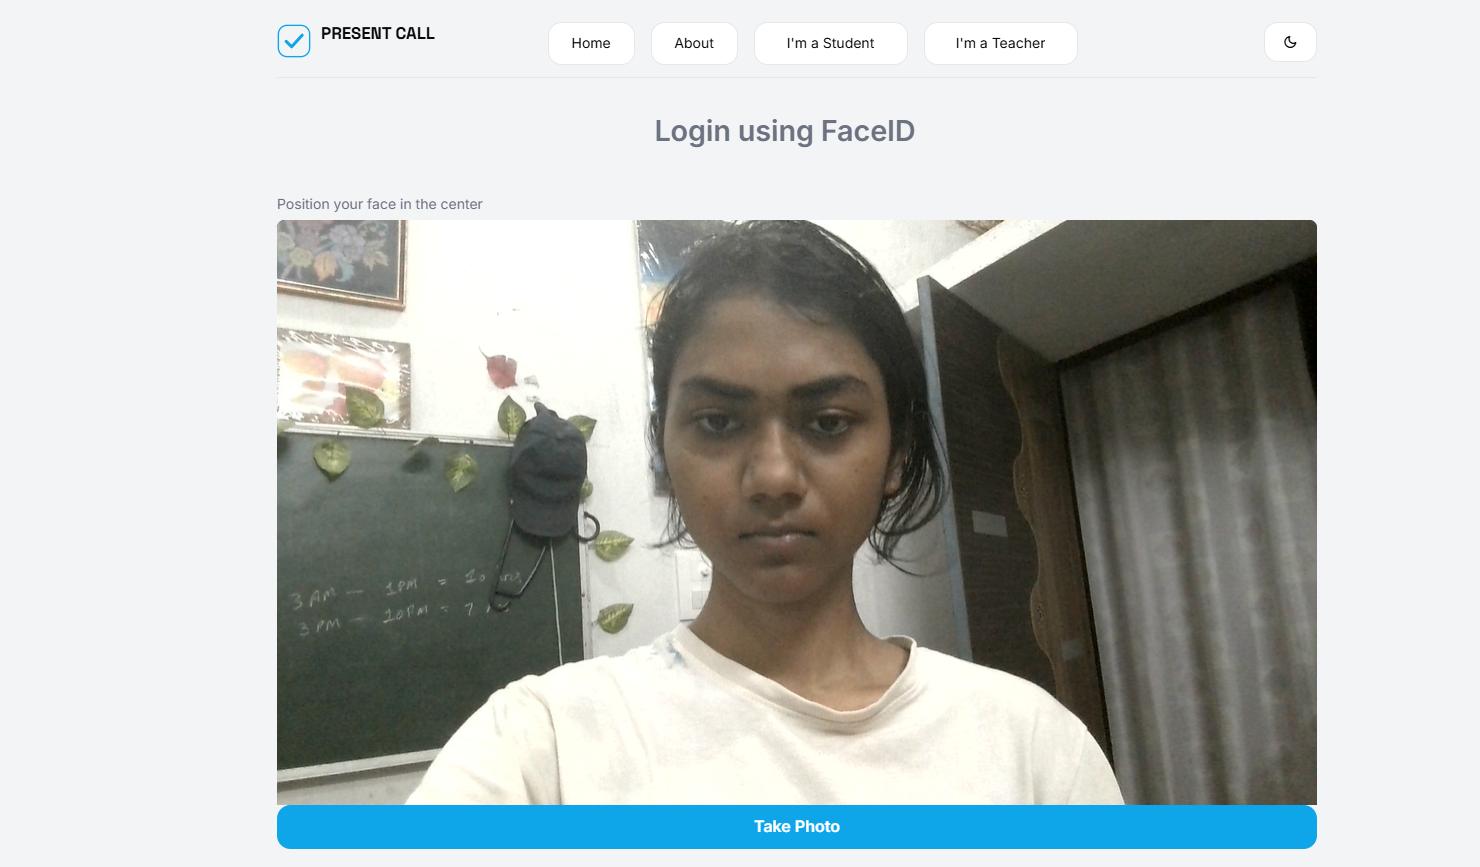
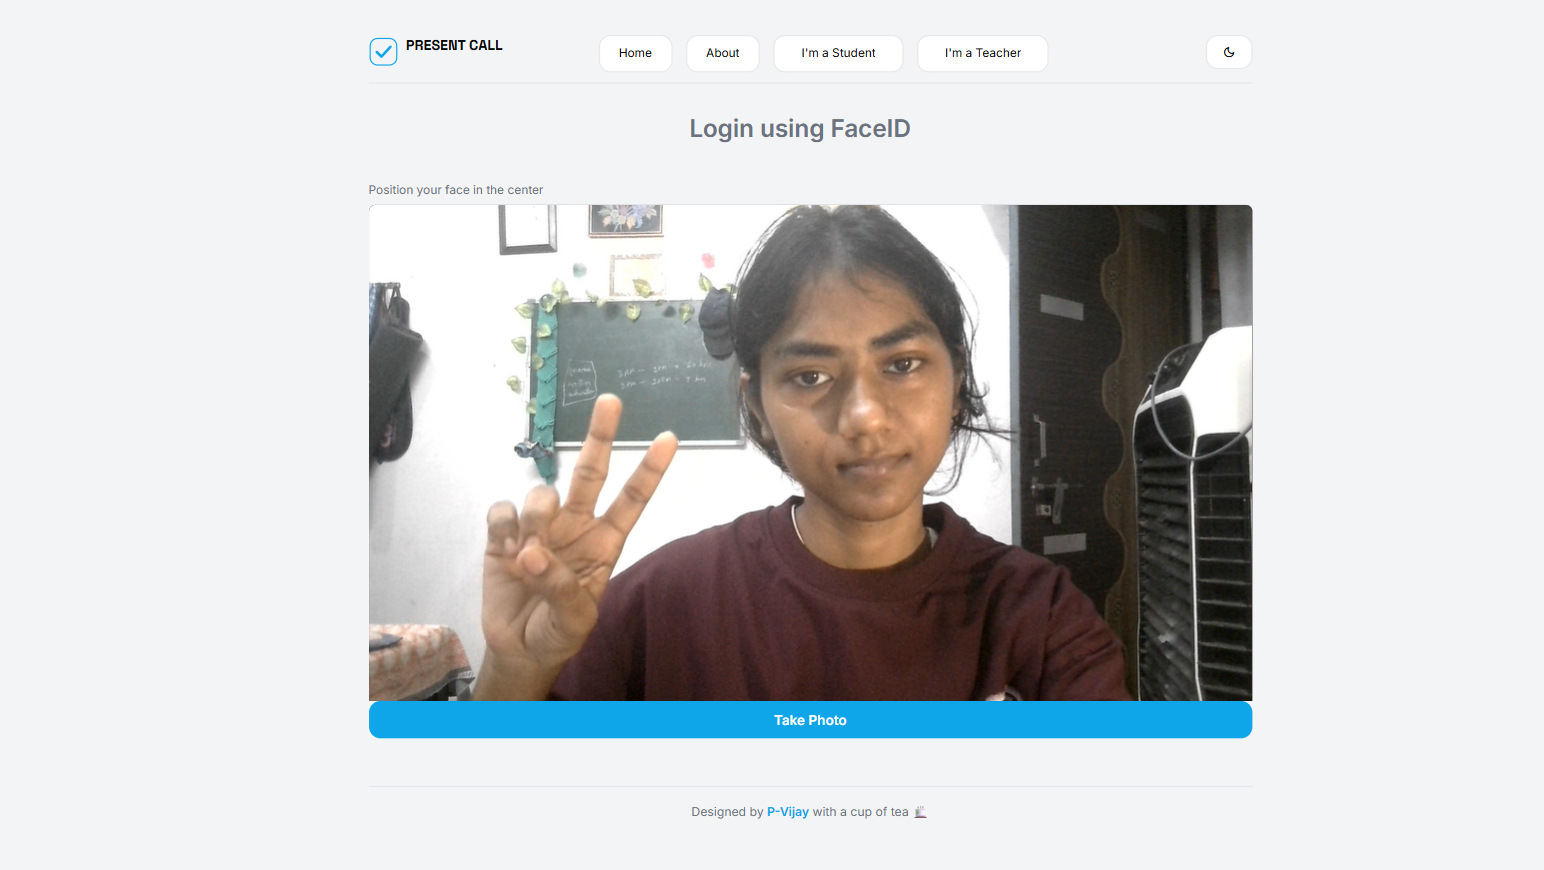
URL added

diff --git a/templates/index.html b/templates/index.html
@@ -22,7 +22,7 @@
             <a href="#tech">Tech Stack</a>
         </div>
         <div class="nav-cta">
-            <a href="https://presentclass.streamlit.app/" class="btn-pill">Start AI Attendance <svg width="18" height="18" viewBox="0 0 24 24" fill="none"
+            <a href="https://presentcall.streamlit.app/" target="_blank" rel="noopener" class="btn-pill">Start AI Attendance <svg width="18" height="18" viewBox="0 0 24 24" fill="none"
                     stroke="currentColor" stroke-width="2">
                     <path d="M9 5l7 7-7 7" />
                 </svg></a>
@@ -40,7 +40,7 @@
             speed, accuracy, and security.</p>
 
         <div class="hero-actions">
-            <a href="https://presentclass.streamlit.app/" class="btn-cta">Start AI Attendance <svg width="24" height="24" viewBox="0 0 24 24" fill="none"
+            <a href="https://presentcall.streamlit.app/" target="_blank" rel="noopener" class="btn-cta">Start AI Attendance <svg width="24" height="24" viewBox="0 0 24 24" fill="none"
                     stroke="currentColor" stroke-width="3">
                     <path d="M9 5l7 7-7 7" />
                 </svg></a>
@@ -257,7 +257,7 @@
         <p>Join thousands of educators who have simplified their day with PresentCall. The smartest AI powered
             attendance
             system is just one click away.</p>
-        <a href="https://presentclass.streamlit.app/" class="btn-white">Start AI Attendance Now</a>
+        <a href="https://presentcall.streamlit.app/" target="_blank" rel="noopener" class="btn-white">Start AI Attendance Now</a>
     </section>
 
     <footer class="main-footer">
